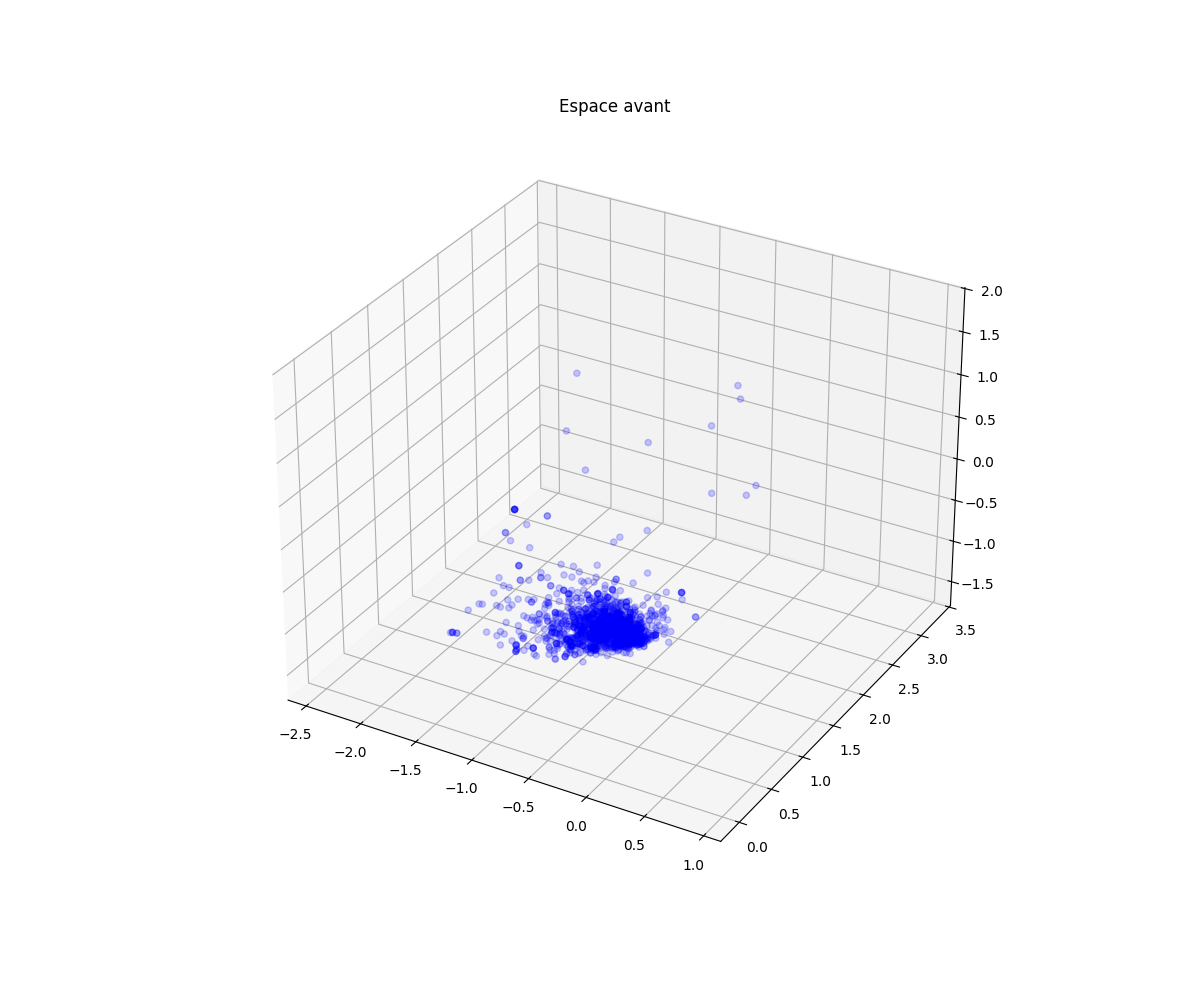
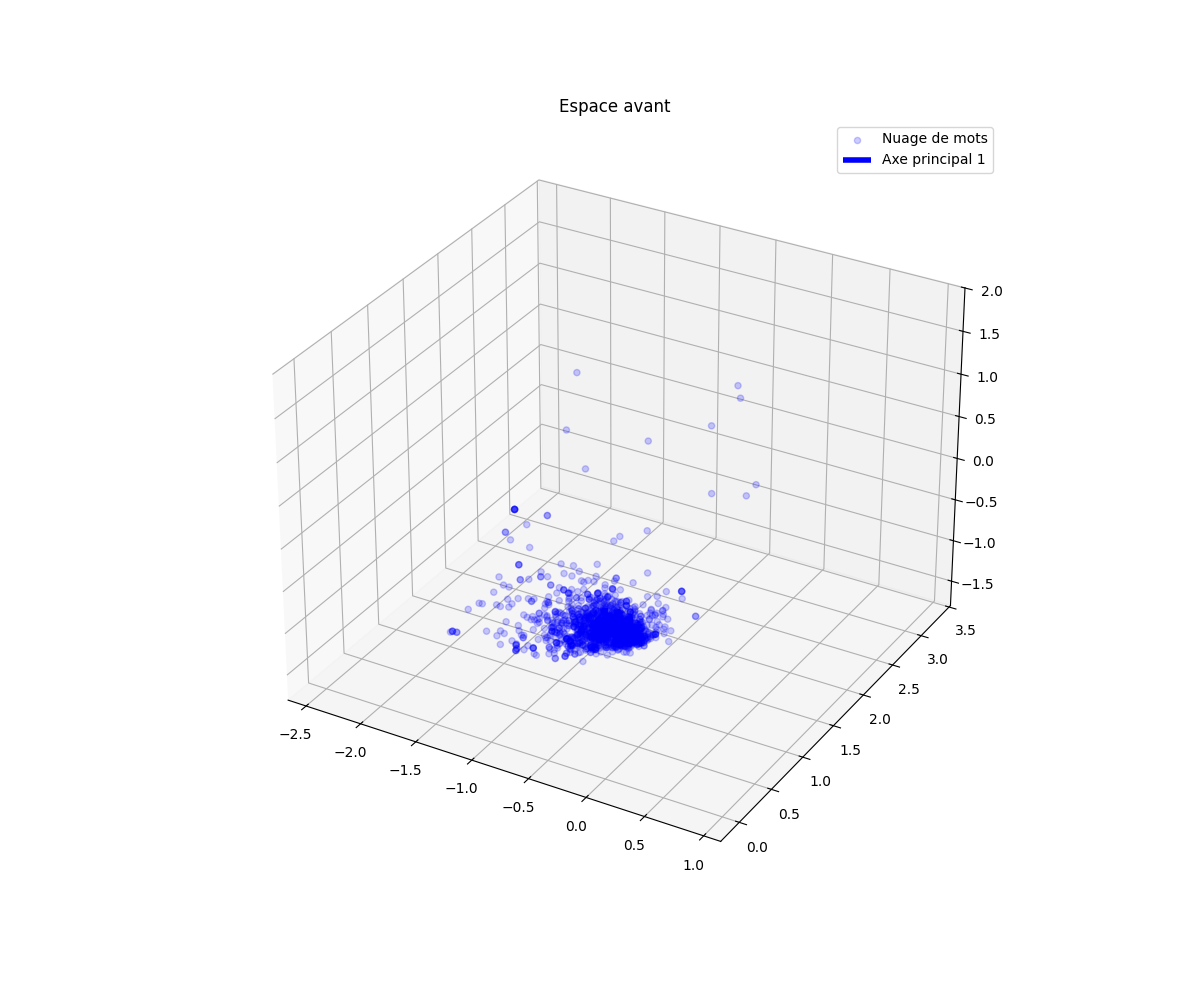
glb

Changed region(s): [[0.4317, 0.558, 0.555, 0.651], [0.7092, 0.124, 0.8325, 0.186], [0.8017, 0.496, 0.8325, 0.527]]

diff --git a/glb.py b/glb.py
@@ -1,0 +1,83 @@
+import numpy as np
+import matplotlib.pyplot as plt
+from sklearn.decomposition import PCA
+from mpl_toolkits.mplot3d import Axes3D
+
+def load_embeddings(file_path):
+    words = []
+    vectors = []
+    with open(file_path, 'r', encoding='utf-8') as f:
+        next(f)  # ignorer la première ligne
+        for line in f:
+            parts = line.strip().split()
+            words.append(parts[0])
+            vectors.append([float(x) for x in parts[1:]])
+    return words, np.array(vectors)
+
+def compute_pca_axes(vectors):
+    mean = np.mean(vectors, axis=0)
+    centered = vectors - mean
+    pca = PCA(n_components=3)
+    pca.fit(centered)
+    # axes échelle par racine de la variance
+    axes = pca.components_ * np.sqrt(pca.explained_variance_).reshape(3,1)
+    return mean, axes
+
+def plot_space_with_directors(vectors, words, color='blue', title='Espace', filename='space.png'):
+    fig = plt.figure(figsize=(12,10))
+    ax = fig.add_subplot(111, projection='3d')
+
+    mean, axes = compute_pca_axes(vectors)
+
+    # Nuage de points
+    ax.scatter(vectors[:,0], vectors[:,1], vectors[:,2], c=color, alpha=0.2, label='Nuage de mots')
+
+    # Affichage des vecteurs directeurs (axes principaux) comme grandes flèches
+    for i in range(3):
+        ax.quiver(mean[0], mean[1], mean[2],
+                  axes[i,0], axes[i,1], axes[i,2],
+                  color=color, linewidth=4, arrow_length_ratio=0.15, label=f'Axe principal {i+1}' if i==0 else "")
+
+    # Ellipsoïde pour la forme globale
+    u = np.linspace(0, 2*np.pi, 30)
+    v = np.linspace(0, np.pi, 30)
+    x = axes[0,0]*np.outer(np.cos(u), np.sin(v)) + mean[0]
+    y = axes[1,1]*np.outer(np.sin(u), np.sin(v)) + mean[1]
+    z = axes[2,2]*np.outer(np.ones_like(u), np.cos(v)) + mean[2]
+    ax.plot_surface(x, y, z, color=color, alpha=0.1)
+
+    # Limites égales pour visualiser correctement la forme
+    max_range = np.array([vectors[:,0].max()-vectors[:,0].min(),
+                          vectors[:,1].max()-vectors[:,1].min(),
+                          vectors[:,2].max()-vectors[:,2].min()]).max() / 2.0
+    mid_x = (vectors[:,0].max()+vectors[:,0].min()) * 0.5
+    mid_y = (vectors[:,1].max()+vectors[:,1].min()) * 0.5
+    mid_z = (vectors[:,2].max()+vectors[:,2].min()) * 0.5
+    ax.set_xlim(mid_x - max_range, mid_x + max_range)
+    ax.set_ylim(mid_y - max_range, mid_y + max_range)
+    ax.set_zlim(mid_z - max_range, mid_z + max_range)
+
+    ax.set_title(title)
+    ax.legend()
+    plt.savefig(filename)
+    plt.show()
+
+if __name__ == "__main__":
+    file_before = "/lium/raid-b/matang/PHD/Experimentations/Testament/GMUD/rapport/categorical-modularity/en-grec/EN_SEMEVAL17_BINDER_monolingual.vec"
+    file_after = "/lium/raid-b/matang/PHD/Experimentations/Testament/GMUD/rapport/categorical-modularity/en-grec/EN_SEMEVAL17_BINDER_crosslingual.vec"
+    words_before, vectors_before = load_embeddings(file_before)
+    words_after, vectors_after = load_embeddings(file_after)
+
+    assert words_before == words_after, "Les deux fichiers doivent avoir les mêmes mots dans le même ordre."
+
+    # Réduction à 3D
+    from sklearn.decomposition import PCA
+    pca = PCA(n_components=3)
+    vectors_before_3d = pca.fit_transform(vectors_before)
+    vectors_after_3d = pca.transform(vectors_after)
+
+    # Figure pour espace avant avec vecteurs directeurs en bleu
+    plot_space_with_directors(vectors_before_3d, words_before, color='blue', title='Espace avant', filename='espace_avant_vecteurs.png')
+
+    # Figure pour espace après avec vecteurs directeurs en rouge
+    plot_space_with_directors(vectors_after_3d, words_after, color='red', title='Espace après', filename='espace_apres_vecteurs.png')
